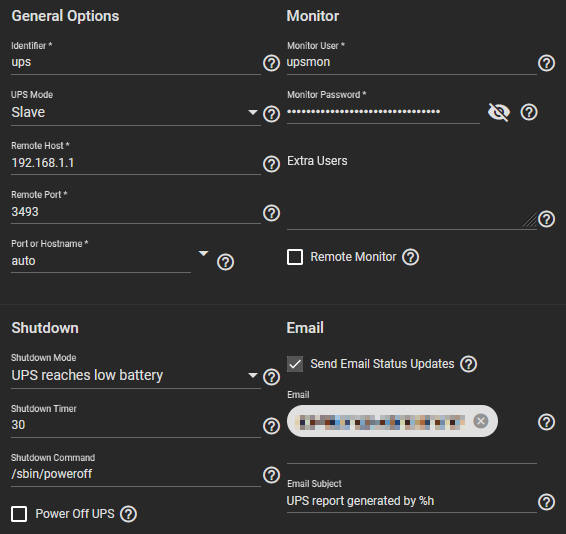
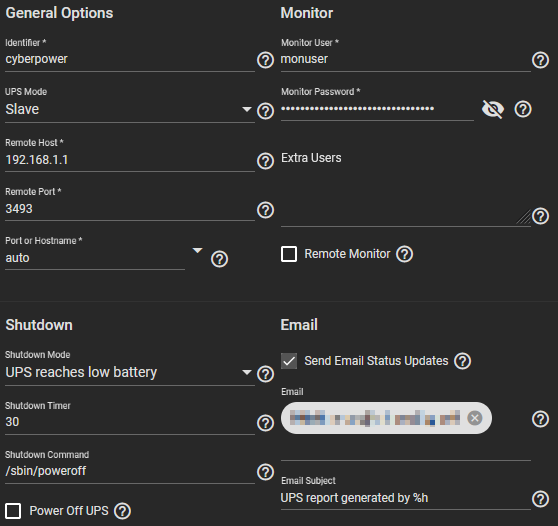
Finish NUT post

diff --git a/content/posts/configure-nut-for-opnsense-and-truenas-with-the-cyberpower-pr750ert2u-ups/index.md b/content/posts/configure-nut-for-opnsense-and-truenas-with-the-cyberpower-pr750ert2u-ups/index.md
@@ -16,11 +16,11 @@ tags:
   - UPS
 ---
 
-For storage in my homelab, I use [TrueNAS](https://www.truenas.com/). Additionally, I run a couple of apps on top of it as [jails](https://docs.freebsd.org/en/books/handbook/jails/). For over a year, I've been using an [uninterruptible power supply (UPS)](https://en.wikipedia.org/wiki/Uninterruptible_power_supply) to protect my TrueNAS from possible data loss in case of a power failure. What I've been missing throughout that time are the monitoring and management tools to shut down everything gracefully when the battery of the UPS runs low. In the event of a power outage lasting longer than 30 minutes, the battery would run out of juice. Everything attached to the UPS would be powered off immediately, and data loss might occur. Luckily I live in an area where power outages rarely happen. I also have backups I could restore if my TrueNAS data gets corrupted. Still, doing this right and configuring [Network UPS Tools (NUT)](https://networkupstools.org/) has been on my to-do list for way too long.
+For storage in my homelab, I use [TrueNAS](https://www.truenas.com/). Additionally, I run a couple of apps on top of it as [jails](https://docs.freebsd.org/en/books/handbook/jails/). For over a year, I've been using an [uninterruptible power supply (UPS)](https://en.wikipedia.org/wiki/Uninterruptible_power_supply) to protect my TrueNAS from possible data loss in case of a power failure. What I've been missing throughout that time are the monitoring and management tools to shut down everything gracefully when the battery of the UPS runs low. In the event of a power outage lasting longer than 30 minutes, the battery would run out of juice. Everything attached to the UPS would be powered off immediately, and data loss might occur. Luckily I live in an area where power outages rarely happen. I also have backups I could restore if my TrueNAS data gets corrupted. Still, doing this right and configuring [Network UPS Tools (NUT)](https://networkupstools.org/) to orchestrate shutdowns has been on my to-do list for way too long. It's time to tackle the issue!
 
 <!--more-->
 
-As always, I'll just mention settings deviating from the defaults.
+As always, I'll only mention settings deviating from the defaults.
 
 ## Requirements
 
@@ -32,35 +32,35 @@ My server rack contains the following hardware.
 4. [CyberPower PR750ERT2U](https://www.cyberpower.com/global/en/product/sku/pr750ert2u) UPS
 5. ISP modem
 
-Of the above, only OPNsense and TrueNAS are susceptible to data corruption in case of power loss. If a shutdown due to low battery power is required, I want to shut down TrueNAS first. After, OPNsense will shut down and turn off the UPS. To achieve this with NUT, I configure OPNsense as NUT **master** and TrueNAS as NUT **slave**. Only one master must exist. However, multiple slaves may exist.
+Of the above, only OPNsense and TrueNAS are susceptible to data corruption in case of power loss. If a shutdown due to low battery power is required, I want to shut down TrueNAS first. After, OPNsense shuts down. To achieve this with NUT, I configure OPNsense as NUT **master** and TrueNAS as NUT **slave**. Only one master must exist. However, multiple slaves may exist.
 
 ## CyberPower PR750ERT2U
 
-This UPS ticks a lot of boxes for me.
+The CyberPower PR750ERT2U has about everything I'd ever want from a UPS.
 
 - HID-compliant USB port to connect OPNsense
-- Fanless operation during utility mode. It isn't apparent from the specifications, but the CyberPower support kindly provided me with this information
-- 750VA capacity allowing me to add another server)
+- Fanless operation in utility mode. It isn't apparent from the specifications, but the CyberPower support kindly provided me with this information
+- 750VA capacity allowing me to add another server
 - Pure sine wave output
 - Line-interactive topology
 - Energy-saving capabilities
 
-Initially, I looked at similar used APC units on eBay. At the time, I couldn't find any good deals on eBay meeting all of the above requirements. I then found the CyberPower unit selling new for under $400 and got one. I've been a happy CyberPower customer ever since. To be clear, I'm don't affiliate with CyberPower.
+Initially, I looked at similar used APC units on eBay. At the time, I couldn't find any good deals on eBay meeting all of the requirements above. I then found the CyberPower unit selling new for under $400 and grabbed one. I've been a happy CyberPower customer ever since. To be clear, I don't affiliate with CyberPower.
 
 ## NUT on OPNsense
 
-Only a few steps are required to configure NUT for OPNsense.
+### NUT Service Configuration
 
-### Service Configuration
+To configure the NUT service on OPNsense, we do the following.
 
 1. Install the `os-nut` plugin under {{< breadcrumb "System" "Firmware" "Plugins" >}}
 2. Refresh the browser and enable the USB HID driver under {{< breadcrumb "Services" "Nut" "Configuration" "UPS Type" "USBHID-Driver" >}}
 3. Reboot OPNsense
 4. Connect the UPS to OPNsense via USB
-5. Set the **Monitor Password** and **Admin Password** for good measure under {{< breadcrumb "Services" "Nut" "Configuration" "Nut Account Settings" >}}
-6. Set a **Name** and **Enable Nut** under {{< breadcrumb "Services" "Nut" "Configuration" "General Settings" "General Nut Settings" >}}
+5. Set the **Monitor Password** and **Admin Password** under {{< breadcrumb "Services" "Nut" "Configuration" "Nut Account Settings" >}}
+6. Set a **Name** (e.g., `cyberpower`) and **Enable Nut** under {{< breadcrumb "Services" "Nut" "Configuration" "General Settings" "General Nut Settings" >}}
 
-{{< breadcrumb "Services" "Nut" "Diagnostics" >}} should output something like the following.
+We should see the data of the UPS under {{< breadcrumb "Services" "Nut" "Diagnostics" >}}.
 
 ```text
 battery.charge: 100
@@ -105,56 +105,58 @@ ups.vendorid: 0764
 
 ### Port Forward
 
-To allow TrueNAS to communicate with the NUT server on OPNsense, we need to add the following port forward under {{< breadcrumb "Firewall" "NAT" "Port Forward" >}}. I assume that TrueNAS is connected to the `LAN` interface.
+To allow TrueNAS to communicate with the NUT server on OPNsense, we add the following port forward under {{< breadcrumb "Firewall" "NAT" "Port Forward" >}}. I assume that TrueNAS is part of the `LAN` network.
 
 |                        |                                    |
 | ---------------------- | ---------------------------------- |
 | Interface              | `LAN`                              |
-| Source                 | `LAN net`                          |
+| Source                 | TrueNAS IP                         |
 | Destination            | `LAN address`                      |
 | Destination port range | from `3493` to `3493`              |
 | Redirect target IP     | `127.0.0.1`                        |
 | Redirect target port   | `3493`                             |
 | Description            | `Redirect NUT traffic to OPNsense` |
 
-After this you should be able to SSH into your TrueNAS and run the following to retrieve the UPS status from OPNsense.
+To see if it works, we SSH into TrueNAS and run the following to retrieve the UPS status from OPNsense.
 
 ```shell
-upsc ups@192.168.1.1
+upsc cyberpower@192.168.1.1
 ```
 
 ## TrueNAS
 
+![Screenshot of TrueNAS NUT settings](truenas-nut.png)
+
 Set the following options under {{< breadcrumb "Services" "UPS" "Configure" >}}.
 
-| General Options |                                |
-| --------------- | ------------------------------ |
-| Identifier      | `ups`                          |
-| UPS Mode        | `Slave`                        |
-| Remote Host     | `<IP or hostname of OPNsense>` |
-| Remote Port     | `3493`                         |
-| Identifier      | `auto`                         |
+| General Options |                                                             |
+| --------------- | ----------------------------------------------------------- |
+| Identifier      | The **Name** we earlier set in OPNsense, e.g., `cyberpower` |
+| UPS Mode        | `Slave`                                                     |
+| Remote Host     | `<IP or hostname of OPNsense>`                              |
+| Remote Port     | `3493`                                                      |
+| Identifier      | `auto`                                                      |
 
 | Shutdown         |                           |
 | ---------------- | ------------------------- |
 | Shutdown Mode    | `UPS reaches low battery` |
 | Shutdown Command | `/sbin/poweroff`          |
 
-| Email                     |                  |
-| ------------------------- | ---------------- |
-| Send Email Status Updates | `checked`        |
-| Email                     | `/sbin/poweroff` |
+| Monitor          |                                                     |
+| ---------------- | --------------------------------------------------- |
+| Monitor User     | `monuser`                                           |
+| Monitor Password | The **Monitor Password** we earlier set in OPNsense |
 
-It isn't required, but I set the password to be on the safe side.
-
-| Monitor          |                           |
-| ---------------- | ------------------------- |
-| Monitor Password | `UPS reaches low battery` |
-
-Here is what the result looks like.
-
-![Screenshot of TrueNAS NUT settings](truenas-nut.png)
-
-Clicking **Save** returns us to the **Services** menu where we need to enable the **UPS** service and also check **Start Automatically**.
+Clicking **Save** returns us to the **Services** menu. We need to enable the **UPS** service and check **Start Automatically** to start the service at boot time.
 
 ![Screenshot of TrueNAS Services settings](truenas-services.png)
+
+## Test
+
+We could disconnect the UPS from power and let the battery drain until the UPS reaches _low battery_ status. At some point, it's probably a good idea to do. But repeatedly doing that unnecessarily wears down the battery. Another way is to run the **F**orce **S**hut **D**own command. SSH into the NUT master (OPNsense) and run the following.
+
+```shell
+upsmon -c fsd
+```
+
+If we configured everything correctly, TrueNAS and OPNsense shut down.
